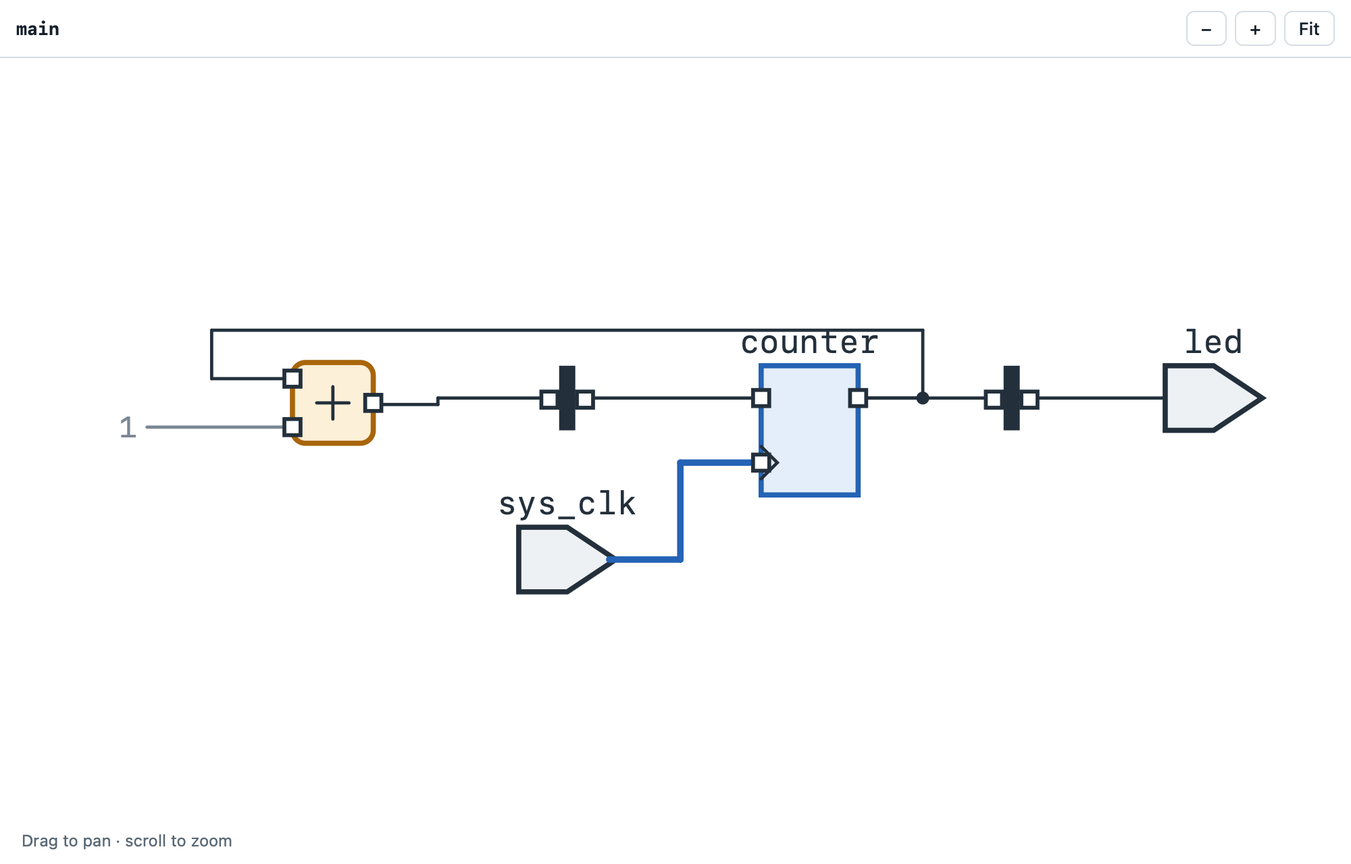
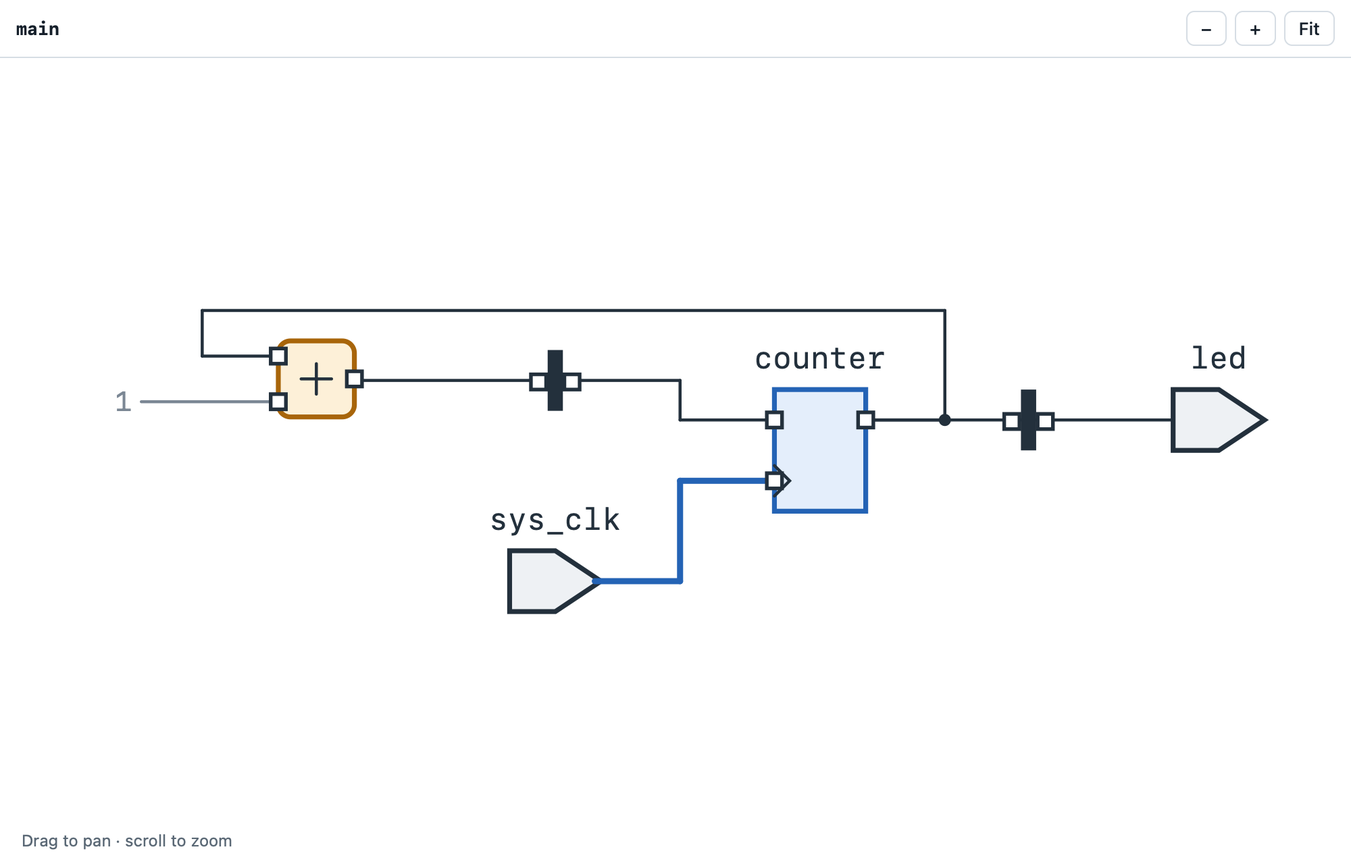
Diagram: plain Show Diagram menu item, one status text, double-click
From the user's review (2026-11-11):
- The editor's right-click item is "Show Diagram", like Auto Format; it
  acts on the module the cursor is in.
- The status bar says "Preparing the diagram…", or "Preparing the
  diagram (large)…" when the engine says so, and no longer repeats the
  engine's phase beside it.
- The docs say a double-click opens a module, as the engine's page now
  does; the fixtures and the diagram screenshot are recaptured.

Changed region(s): [[0.093, 0.3438, 0.93, 0.5938], [0.372, 0.5625, 0.527, 0.7188]]

diff --git a/ui/e2e/fixtures/diagram.html b/ui/e2e/fixtures/diagram.html
@@ -90,7 +90,7 @@ button[hidden] { display: none; }
 <script>
 (function () {
   "use strict";
-  const DATA = {"format":1,"top":"main","modules":{"main":{"name":"main","top":true,"source":{"file":"main.v","line":1},"svg_file":"main.svg","blocks":{"$main.v:6$add$170":{"kind":"logic","category":"arith","title":"Adder","type":"$add","width":32,"source":{"file":"main.v","line":6},"fixed":{"B":"1"},"ports":{"A":{"direction":"input","width":24,"signal":"counter","by_label":false},"B":{"direction":"input","width":32,"signal":"fixed value 1","by_label":false},"Y":{"direction":"output","width":32,"signal":"","by_label":false}}},"$procdff$172":{"kind":"logic","category":"reg","title":"Register","type":"$dff","width":24,"name":"counter","source":{"file":"main.v","line":6},"ports":{"CLK":{"direction":"input","width":1,"signal":"sys_clk","by_label":false},"D":{"direction":"input","width":24,"signal":"","by_label":false},"Q":{"direction":"output","width":24,"signal":"counter","by_label":false}}}},"labels":{"l0":{"text":"1","kind":"fixed","direction":"in","block":"$main.v:6$add$170","port":"B","bits":[59,60,61,62,63,64,65,66,67,68,69,70,71,72,73,74,75,76,77,78,79,80,81,82,83,84,85,86,87,88,89,90]}},"pins":{"sys_clk":{"direction":"input","width":1,"bits":[2]},"led":{"direction":"output","width":1,"bits":[3]}},"signals":{"2":{"name":"sys_clk","width":1},"3":{"name":"counter","width":24},"4":{"name":"counter","width":24},"5":{"name":"counter","width":24},"6":{"name":"counter","width":24},"7":{"name":"counter","width":24},"8":{"name":"counter","width":24},"9":{"name":"counter","width":24},"10":{"name":"counter","width":24},"11":{"name":"counter","width":24},"12":{"name":"counter","width":24},"13":{"name":"counter","width":24},"14":{"name":"counter","width":24},"15":{"name":"counter","width":24},"16":{"name":"counter","width":24},"17":{"name":"counter","width":24},"18":{"name":"counter","width":24},"19":{"name":"counter","width":24},"20":{"name":"counter","width":24},"21":{"name":"counter","width":24},"22":{"name":"counter","width":24},"23":{"name":"counter","width":24},"24":{"name":"counter","width":24},"25":{"name":"counter","width":24},"26":{"name":"counter","width":24},"27":{"name":"","width":24},"28":{"name":"","width":24},"29":{"name":"","width":24},"30":{"name":"","width":24},"31":{"name":"","width":24},"32":{"name":"","width":24},"33":{"name":"","width":24},"34":{"name":"","width":24},"35":{"name":"","width":24},"36":{"name":"","width":24},"37":{"name":"","width":24},"38":{"name":"","width":24},"39":{"name":"","width":24},"40":{"name":"","width":24},"41":{"name":"","width":24},"42":{"name":"","width":24},"43":{"name":"","width":24},"44":{"name":"","width":24},"45":{"name":"","width":24},"46":{"name":"","width":24},"47":{"name":"","width":24},"48":{"name":"","width":24},"49":{"name":"","width":24},"50":{"name":"","width":24},"51":{"name":"","width":32},"52":{"name":"","width":32},"53":{"name":"","width":32},"54":{"name":"","width":32},"55":{"name":"","width":32},"56":{"name":"","width":32},"57":{"name":"","width":32},"58":{"name":"","width":32},"59":{"name":"fixed value 1","width":32},"60":{"name":"fixed value 1","width":32},"61":{"name":"fixed value 1","width":32},"62":{"name":"fixed value 1","width":32},"63":{"name":"fixed value 1","width":32},"64":{"name":"fixed value 1","width":32},"65":{"name":"fixed value 1","width":32},"66":{"name":"fixed value 1","width":32},"67":{"name":"fixed value 1","width":32},"68":{"name":"fixed value 1","width":32},"69":{"name":"fixed value 1","width":32},"70":{"name":"fixed value 1","width":32},"71":{"name":"fixed value 1","width":32},"72":{"name":"fixed value 1","width":32},"73":{"name":"fixed value 1","width":32},"74":{"name":"fixed value 1","width":32},"75":{"name":"fixed value 1","width":32},"76":{"name":"fixed value 1","width":32},"77":{"name":"fixed value 1","width":32},"78":{"name":"fixed value 1","width":32},"79":{"name":"fixed value 1","width":32},"80":{"name":"fixed value 1","width":32},"81":{"name":"fixed value 1","width":32},"82":{"name":"fixed value 1","width":32},"83":{"name":"fixed value 1","width":32},"84":{"name":"fixed value 1","width":32},"85":{"name":"fixed value 1","width":32},"86":{"name":"fixed value 1","width":32},"87":{"name":"fixed value 1","width":32},"88":{"name":"fixed value 1","width":32},"89":{"name":"fixed value 1","width":32},"90":{"name":"fixed value 1","width":32}},"clocks":[2],"svg":"<svg xmlns=\"http://www.w3.org/2000/svg\" class=\"logix-diagram\" viewBox=\"0 0 387 105\" width=\"387\" height=\"105\" data-module=\"main\"><style>svg.logix-diagram{stroke:var(--logix-diagram-wire,#23303c);fill:none;stroke-linecap:round}\nsvg.logix-diagram text{fill:var(--logix-diagram-text,var(--logix-diagram-wire,#23303c));stroke:none;font:400 10px var(--logix-diagram-font,ui-monospace,\"SF Mono\",Menlo,Consolas,monospace)}\nsvg.logix-diagram .nodelabel{text-anchor:middle}\nsvg.logix-diagram .bar,svg.logix-diagram .junction{fill:var(--logix-diagram-wire,#23303c);stroke:none}\nsvg.logix-diagram .block>.body{stroke-width:1.6;fill:var(--logix-diagram-gate-fill,#e9eef3);stroke:var(--logix-diagram-gate,#4b5a69)}\nsvg.logix-diagram .block>.mark{stroke:var(--logix-diagram-wire,#23303c)}\nsvg.logix-diagram .cat-reg>.body{fill:var(--logix-diagram-register-fill,#e4eefb);stroke:var(--logix-diagram-register,#2463b5)}\nsvg.logix-diagram .cat-arith>.body{fill:var(--logix-diagram-arithmetic-fill,#fdf0d8);stroke:var(--logix-diagram-arithmetic,#a8650a)}\nsvg.logix-diagram .cat-cmp>.body{fill:var(--logix-diagram-compare-fill,#eee7fb);stroke:var(--logix-diagram-compare,#6a43c2)}\nsvg.logix-diagram .cat-mux>.body{fill:var(--logix-diagram-mux-fill,#fae4f0);stroke:var(--logix-diagram-mux,#ad2f7a)}\nsvg.logix-diagram .cat-mem>.body{fill:var(--logix-diagram-memory-fill,#dff3e8);stroke:var(--logix-diagram-memory,#237a4b)}\nsvg.logix-diagram .cat-module>.body{fill:var(--logix-diagram-module-fill,#dcf1f1);stroke:var(--logix-diagram-module,#0f7f84)}\nsvg.logix-diagram .cat-fpga>.body{fill:var(--logix-diagram-fpga-fill,#fbe7da);stroke:var(--logix-diagram-fpga,#b84d16)}\nsvg.logix-diagram .cat-port>.body{fill:var(--logix-diagram-pin-fill,#eef1f4);stroke:var(--logix-diagram-wire,#23303c)}\nsvg.logix-diagram .cat-const>.body{fill:var(--logix-diagram-pin-fill,#eef1f4);stroke:var(--logix-diagram-fixed,#7b8794)}\nsvg.logix-diagram .cat-const text{fill:var(--logix-diagram-fixed,#7b8794)}\nsvg.logix-diagram .wire.clock,svg.logix-diagram .wire.global{stroke:var(--logix-diagram-clock,#2463b5);stroke-width:2}\nsvg.logix-diagram .junction.clock,svg.logix-diagram .junction.global{fill:var(--logix-diagram-clock,#2463b5)}\nsvg.logix-diagram .wire.fixed{stroke:var(--logix-diagram-fixed,#7b8794)}\nsvg.logix-diagram text.lbltext{font-size:9px}\nsvg.logix-diagram text.signal{fill:var(--logix-diagram-clock,#2463b5)}\nsvg.logix-diagram text.fixed{fill:var(--logix-diagram-fixed,#7b8794)}\nsvg.logix-diagram .portbox{fill:var(--logix-diagram-sheet,#fff);stroke:var(--logix-diagram-wire,#23303c);stroke-width:1.2}\n<\/style><g class=\"blocks\"><g class=\"block cat-arith\" data-block=\"$main.v:6$add$170\" transform=\"translate(75,22)\"><rect width=\"25\" height=\"25\" rx=\"4\" class=\"body\"/><line x1=\"7.5\" y1=\"12.5\" x2=\"17.5\" y2=\"12.5\" class=\"mark\"/><line x1=\"12.5\" y1=\"7.5\" x2=\"12.5\" y2=\"17.5\" class=\"mark\"/><\/g><g class=\"block cat-reg\" data-block=\"$procdff$172\" transform=\"translate(220,23)\"><rect width=\"30\" height=\"40\" class=\"body\"/><path d=\"M0,35 L5,30 L0,25\" class=\"mark\"/><text x=\"15\" y=\"-4\" class=\"nodelabel\">counter<\/text><\/g><g class=\"block cat-port\" data-pin=\"sys_clk\" transform=\"translate(145,73)\"><path d=\"M0,0 L0,20 L15,20 L30,10 L15,0 Z\" class=\"body\"/><text x=\"15\" y=\"-4\" class=\"nodelabel\">sys_clk<\/text><\/g><g class=\"block cat-port\" data-pin=\"led\" transform=\"translate(345,23)\"><path d=\"M0,0 L0,20 L15,20 L30,10 L15,0 Z\" class=\"body\"/><text x=\"15\" y=\"-4\" class=\"nodelabel\">led<\/text><\/g><g class=\"block label\" data-label=\"l0\" transform=\"translate(12,42)\"><text x=\"15\" y=\"3\" text-anchor=\"end\" class=\"lbltext fixed\">1<\/text><\/g><g class=\"block splitjoin\" data-sj=\"s0\" data-kind=\"split\" data-bits=\"27,28,29,30,31,32,33,34,35,36,37,38,39,40,41,42,43,44,45,46,47,48,49,50,51,52,53,54,55,56,57,58\" transform=\"translate(157.5,23)\"><rect width=\"5\" height=\"20\" class=\"bar\"/><\/g><g class=\"block splitjoin\" data-sj=\"s1\" data-kind=\"split\" data-bits=\"4,5,6,7,8,9,10,11,12,13,14,15,16,17,18,19,20,21,22,23,24,25,26,3\" transform=\"translate(295,23)\"><rect width=\"5\" height=\"20\" class=\"bar\"/><\/g><\/g><g class=\"wires\"><line x1=\"250\" y1=\"33\" x2=\"270\" y2=\"33\" class=\"wire\" data-bits=\"4,5,6,7,8,9,10,11,12,13,14,15,16,17,18,19,20,21,22,23,24,25,26,3\"/><line x1=\"270\" y1=\"33\" x2=\"270\" y2=\"12\" class=\"wire\" data-bits=\"4,5,6,7,8,9,10,11,12,13,14,15,16,17,18,19,20,21,22,23,24,25,26,3\"/><line x1=\"270\" y1=\"12\" x2=\"50\" y2=\"12\" class=\"wire\" data-bits=\"4,5,6,7,8,9,10,11,12,13,14,15,16,17,18,19,20,21,22,23,24,25,26,3\"/><line x1=\"50\" y1=\"12\" x2=\"50\" y2=\"27\" class=\"wire\" data-bits=\"4,5,6,7,8,9,10,11,12,13,14,15,16,17,18,19,20,21,22,23,24,25,26,3\"/><line x1=\"50\" y1=\"27\" x2=\"75\" y2=\"27\" class=\"wire\" data-bits=\"4,5,6,7,8,9,10,11,12,13,14,15,16,17,18,19,20,21,22,23,24,25,26,3\"/><circle cx=\"270\" cy=\"33\" r=\"2\" class=\"wire junction\" data-bits=\"4,5,6,7,8,9,10,11,12,13,14,15,16,17,18,19,20,21,22,23,24,25,26,3\"/><line x1=\"250\" y1=\"33\" x2=\"295\" y2=\"33\" class=\"wire\" data-bits=\"4,5,6,7,8,9,10,11,12,13,14,15,16,17,18,19,20,21,22,23,24,25,26,3\"/><line x1=\"30\" y1=\"42\" x2=\"75\" y2=\"42\" class=\"wire fixed\" data-bits=\"59,60,61,62,63,64,65,66,67,68,69,70,71,72,73,74,75,76,77,78,79,80,81,82,83,84,85,86,87,88,89,90\"/><line x1=\"173\" y1=\"83\" x2=\"195\" y2=\"83\" class=\"wire clock\" data-bits=\"2\"/><line x1=\"195\" y1=\"83\" x2=\"195\" y2=\"53\" class=\"wire clock\" data-bits=\"2\"/><line x1=\"195\" y1=\"53\" x2=\"220\" y2=\"53\" class=\"wire clock\" data-bits=\"2\"/><line x1=\"161.5\" y1=\"33\" x2=\"220\" y2=\"33\" class=\"wire\" data-bits=\"27,28,29,30,31,32,33,34,35,36,37,38,39,40,41,42,43,44,45,46,47,48,49,50\"/><line x1=\"299\" y1=\"33\" x2=\"345\" y2=\"33\" class=\"wire\" data-bits=\"3\"/><line x1=\"100\" y1=\"35\" x2=\"120\" y2=\"35\" class=\"wire\" data-bits=\"27,28,29,30,31,32,33,34,35,36,37,38,39,40,41,42,43,44,45,46,47,48,49,50,51,52,53,54,55,56,57,58\"/><line x1=\"120\" y1=\"35\" x2=\"120\" y2=\"33\" class=\"wire\" data-bits=\"27,28,29,30,31,32,33,34,35,36,37,38,39,40,41,42,43,44,45,46,47,48,49,50,51,52,53,54,55,56,57,58\"/><line x1=\"120\" y1=\"33\" x2=\"157.5\" y2=\"33\" class=\"wire\" data-bits=\"27,28,29,30,31,32,33,34,35,36,37,38,39,40,41,42,43,44,45,46,47,48,49,50,51,52,53,54,55,56,57,58\"/><\/g><g class=\"ports\"><rect x=\"72.5\" y=\"24.5\" width=\"5\" height=\"5\" class=\"portbox\" data-block=\"$main.v:6$add$170\" data-port=\"A\"/><rect x=\"72.5\" y=\"39.5\" width=\"5\" height=\"5\" class=\"portbox\" data-block=\"$main.v:6$add$170\" data-port=\"B\"/><rect x=\"97.5\" y=\"32\" width=\"5\" height=\"5\" class=\"portbox\" data-block=\"$main.v:6$add$170\" data-port=\"Y\"/><rect x=\"217.5\" y=\"50.5\" width=\"5\" height=\"5\" class=\"portbox\" data-block=\"$procdff$172\" data-port=\"CLK\"/><rect x=\"217.5\" y=\"30.5\" width=\"5\" height=\"5\" class=\"portbox\" data-block=\"$procdff$172\" data-port=\"D\"/><rect x=\"247.5\" y=\"30.5\" width=\"5\" height=\"5\" class=\"portbox\" data-block=\"$procdff$172\" data-port=\"Q\"/><rect x=\"152\" y=\"31\" width=\"5\" height=\"5\" class=\"portbox\" data-sj=\"s0\" data-part=\"[31:0]\" data-side=\"in\"/><rect x=\"163\" y=\"31\" width=\"5\" height=\"5\" class=\"portbox\" data-sj=\"s0\" data-part=\"[23:0]\" data-side=\"out\"/><rect x=\"289.5\" y=\"31\" width=\"5\" height=\"5\" class=\"portbox\" data-sj=\"s1\" data-part=\"[23:0]\" data-side=\"in\"/><rect x=\"300.5\" y=\"31\" width=\"5\" height=\"5\" class=\"portbox\" data-sj=\"s1\" data-part=\"[23]\" data-side=\"out\"/><\/g><\/svg>"}}};
+  const DATA = {"format":1,"top":"main","modules":{"main":{"name":"main","top":true,"source":{"file":"main.v","line":1},"svg_file":"main.svg","blocks":{"$main.v:6$add$170":{"kind":"logic","category":"arith","title":"Adder","type":"$add","width":32,"source":{"file":"main.v","line":6},"fixed":{"B":"1"},"ports":{"A":{"direction":"input","width":24,"signal":"counter","by_label":false},"B":{"direction":"input","width":32,"signal":"fixed value 1","by_label":false},"Y":{"direction":"output","width":32,"signal":"","by_label":false}}},"$procdff$172":{"kind":"logic","category":"reg","title":"Register","type":"$dff","width":24,"name":"counter","source":{"file":"main.v","line":6},"ports":{"CLK":{"direction":"input","width":1,"signal":"sys_clk","by_label":false},"D":{"direction":"input","width":24,"signal":"","by_label":false},"Q":{"direction":"output","width":24,"signal":"counter","by_label":false}}}},"labels":{"l0":{"text":"1","kind":"fixed","direction":"in","block":"$main.v:6$add$170","port":"B","bits":[59,60,61,62,63,64,65,66,67,68,69,70,71,72,73,74,75,76,77,78,79,80,81,82,83,84,85,86,87,88,89,90]}},"pins":{"sys_clk":{"direction":"input","width":1,"bits":[2]},"led":{"direction":"output","width":1,"bits":[3]}},"signals":{"2":{"name":"sys_clk","width":1},"3":{"name":"counter","width":24},"4":{"name":"counter","width":24},"5":{"name":"counter","width":24},"6":{"name":"counter","width":24},"7":{"name":"counter","width":24},"8":{"name":"counter","width":24},"9":{"name":"counter","width":24},"10":{"name":"counter","width":24},"11":{"name":"counter","width":24},"12":{"name":"counter","width":24},"13":{"name":"counter","width":24},"14":{"name":"counter","width":24},"15":{"name":"counter","width":24},"16":{"name":"counter","width":24},"17":{"name":"counter","width":24},"18":{"name":"counter","width":24},"19":{"name":"counter","width":24},"20":{"name":"counter","width":24},"21":{"name":"counter","width":24},"22":{"name":"counter","width":24},"23":{"name":"counter","width":24},"24":{"name":"counter","width":24},"25":{"name":"counter","width":24},"26":{"name":"counter","width":24},"27":{"name":"","width":24},"28":{"name":"","width":24},"29":{"name":"","width":24},"30":{"name":"","width":24},"31":{"name":"","width":24},"32":{"name":"","width":24},"33":{"name":"","width":24},"34":{"name":"","width":24},"35":{"name":"","width":24},"36":{"name":"","width":24},"37":{"name":"","width":24},"38":{"name":"","width":24},"39":{"name":"","width":24},"40":{"name":"","width":24},"41":{"name":"","width":24},"42":{"name":"","width":24},"43":{"name":"","width":24},"44":{"name":"","width":24},"45":{"name":"","width":24},"46":{"name":"","width":24},"47":{"name":"","width":24},"48":{"name":"","width":24},"49":{"name":"","width":24},"50":{"name":"","width":24},"51":{"name":"","width":32},"52":{"name":"","width":32},"53":{"name":"","width":32},"54":{"name":"","width":32},"55":{"name":"","width":32},"56":{"name":"","width":32},"57":{"name":"","width":32},"58":{"name":"","width":32},"59":{"name":"fixed value 1","width":32},"60":{"name":"fixed value 1","width":32},"61":{"name":"fixed value 1","width":32},"62":{"name":"fixed value 1","width":32},"63":{"name":"fixed value 1","width":32},"64":{"name":"fixed value 1","width":32},"65":{"name":"fixed value 1","width":32},"66":{"name":"fixed value 1","width":32},"67":{"name":"fixed value 1","width":32},"68":{"name":"fixed value 1","width":32},"69":{"name":"fixed value 1","width":32},"70":{"name":"fixed value 1","width":32},"71":{"name":"fixed value 1","width":32},"72":{"name":"fixed value 1","width":32},"73":{"name":"fixed value 1","width":32},"74":{"name":"fixed value 1","width":32},"75":{"name":"fixed value 1","width":32},"76":{"name":"fixed value 1","width":32},"77":{"name":"fixed value 1","width":32},"78":{"name":"fixed value 1","width":32},"79":{"name":"fixed value 1","width":32},"80":{"name":"fixed value 1","width":32},"81":{"name":"fixed value 1","width":32},"82":{"name":"fixed value 1","width":32},"83":{"name":"fixed value 1","width":32},"84":{"name":"fixed value 1","width":32},"85":{"name":"fixed value 1","width":32},"86":{"name":"fixed value 1","width":32},"87":{"name":"fixed value 1","width":32},"88":{"name":"fixed value 1","width":32},"89":{"name":"fixed value 1","width":32},"90":{"name":"fixed value 1","width":32}},"clocks":[2],"svg":"<svg xmlns=\"http://www.w3.org/2000/svg\" class=\"logix-diagram\" viewBox=\"0 0 411 123\" width=\"411\" height=\"123\" data-module=\"main\"><style>svg.logix-diagram{stroke:var(--logix-diagram-wire,#23303c);fill:none;stroke-linecap:round}\nsvg.logix-diagram text{fill:var(--logix-diagram-text,var(--logix-diagram-wire,#23303c));stroke:none;font:400 10px var(--logix-diagram-font,ui-monospace,\"SF Mono\",Menlo,Consolas,monospace)}\nsvg.logix-diagram .nodelabel{text-anchor:middle}\nsvg.logix-diagram .glyph{text-anchor:middle;font-weight:600}\nsvg.logix-diagram .bar,svg.logix-diagram .junction{fill:var(--logix-diagram-wire,#23303c);stroke:none}\nsvg.logix-diagram .block>.body{stroke-width:1.6;fill:var(--logix-diagram-gate-fill,#e9eef3);stroke:var(--logix-diagram-gate,#4b5a69)}\nsvg.logix-diagram .block>.mark{stroke:var(--logix-diagram-wire,#23303c)}\nsvg.logix-diagram .cat-reg>.body{fill:var(--logix-diagram-register-fill,#e4eefb);stroke:var(--logix-diagram-register,#2463b5)}\nsvg.logix-diagram .cat-arith>.body{fill:var(--logix-diagram-arithmetic-fill,#fdf0d8);stroke:var(--logix-diagram-arithmetic,#a8650a)}\nsvg.logix-diagram .cat-cmp>.body{fill:var(--logix-diagram-compare-fill,#eee7fb);stroke:var(--logix-diagram-compare,#6a43c2)}\nsvg.logix-diagram .cat-mux>.body{fill:var(--logix-diagram-mux-fill,#fae4f0);stroke:var(--logix-diagram-mux,#ad2f7a)}\nsvg.logix-diagram .cat-mem>.body{fill:var(--logix-diagram-memory-fill,#dff3e8);stroke:var(--logix-diagram-memory,#237a4b)}\nsvg.logix-diagram .cat-module>.body{fill:var(--logix-diagram-module-fill,#dcf1f1);stroke:var(--logix-diagram-module,#0f7f84)}\nsvg.logix-diagram .cat-fpga>.body{fill:var(--logix-diagram-fpga-fill,#fbe7da);stroke:var(--logix-diagram-fpga,#b84d16)}\nsvg.logix-diagram .cat-port>.body{fill:var(--logix-diagram-pin-fill,#eef1f4);stroke:var(--logix-diagram-wire,#23303c)}\nsvg.logix-diagram .cat-const>.body{fill:var(--logix-diagram-pin-fill,#eef1f4);stroke:var(--logix-diagram-fixed,#7b8794)}\nsvg.logix-diagram .cat-const text{fill:var(--logix-diagram-fixed,#7b8794)}\nsvg.logix-diagram .wire.clock,svg.logix-diagram .wire.global{stroke:var(--logix-diagram-clock,#2463b5);stroke-width:2}\nsvg.logix-diagram .junction.clock,svg.logix-diagram .junction.global{fill:var(--logix-diagram-clock,#2463b5)}\nsvg.logix-diagram .wire.fixed{stroke:var(--logix-diagram-fixed,#7b8794)}\nsvg.logix-diagram text.lbltext{font-size:9px}\nsvg.logix-diagram text.signal{fill:var(--logix-diagram-clock,#2463b5)}\nsvg.logix-diagram text.fixed{fill:var(--logix-diagram-fixed,#7b8794)}\nsvg.logix-diagram .portbox{fill:var(--logix-diagram-sheet,#fff);stroke:var(--logix-diagram-wire,#23303c);stroke-width:1.2}\n<\/style><g class=\"blocks\"><g class=\"block cat-arith\" data-block=\"$main.v:6$add$170\" transform=\"translate(75,22)\"><rect width=\"25\" height=\"25\" rx=\"4\" class=\"body\"/><line x1=\"7.5\" y1=\"12.5\" x2=\"17.5\" y2=\"12.5\" class=\"mark\"/><line x1=\"12.5\" y1=\"7.5\" x2=\"12.5\" y2=\"17.5\" class=\"mark\"/><\/g><g class=\"block cat-reg\" data-block=\"$procdff$172\" transform=\"translate(238,38)\"><rect width=\"30\" height=\"40\" class=\"body\"/><path d=\"M0,35 L5,30 L0,25\" class=\"mark\"/><text x=\"15\" y=\"-7\" class=\"nodelabel\">counter<\/text><\/g><g class=\"block cat-port\" data-pin=\"sys_clk\" transform=\"translate(151,91)\"><path d=\"M0,0 L0,20 L15,20 L30,10 L15,0 Z\" class=\"body\"/><text x=\"15\" y=\"-7\" class=\"nodelabel\">sys_clk<\/text><\/g><g class=\"block cat-port\" data-pin=\"led\" transform=\"translate(369,38)\"><path d=\"M0,0 L0,20 L15,20 L30,10 L15,0 Z\" class=\"body\"/><text x=\"15\" y=\"-7\" class=\"nodelabel\">led<\/text><\/g><g class=\"block label\" data-label=\"l0\" transform=\"translate(12,42)\"><text x=\"15\" y=\"3\" text-anchor=\"end\" class=\"lbltext fixed\">1<\/text><\/g><g class=\"block splitjoin\" data-sj=\"s0\" data-kind=\"split\" data-bits=\"27,28,29,30,31,32,33,34,35,36,37,38,39,40,41,42,43,44,45,46,47,48,49,50,51,52,53,54,55,56,57,58\" transform=\"translate(163.5,25)\"><rect width=\"5\" height=\"20\" class=\"bar\"/><\/g><g class=\"block splitjoin\" data-sj=\"s1\" data-kind=\"split\" data-bits=\"4,5,6,7,8,9,10,11,12,13,14,15,16,17,18,19,20,21,22,23,24,25,26,3\" transform=\"translate(319,38)\"><rect width=\"5\" height=\"20\" class=\"bar\"/><\/g><\/g><g class=\"wires\"><line x1=\"268\" y1=\"48\" x2=\"294\" y2=\"48\" class=\"wire\" data-bits=\"4,5,6,7,8,9,10,11,12,13,14,15,16,17,18,19,20,21,22,23,24,25,26,3\"/><line x1=\"294\" y1=\"48\" x2=\"294\" y2=\"12\" class=\"wire\" data-bits=\"4,5,6,7,8,9,10,11,12,13,14,15,16,17,18,19,20,21,22,23,24,25,26,3\"/><line x1=\"294\" y1=\"12\" x2=\"50\" y2=\"12\" class=\"wire\" data-bits=\"4,5,6,7,8,9,10,11,12,13,14,15,16,17,18,19,20,21,22,23,24,25,26,3\"/><line x1=\"50\" y1=\"12\" x2=\"50\" y2=\"27\" class=\"wire\" data-bits=\"4,5,6,7,8,9,10,11,12,13,14,15,16,17,18,19,20,21,22,23,24,25,26,3\"/><line x1=\"50\" y1=\"27\" x2=\"75\" y2=\"27\" class=\"wire\" data-bits=\"4,5,6,7,8,9,10,11,12,13,14,15,16,17,18,19,20,21,22,23,24,25,26,3\"/><circle cx=\"294\" cy=\"48\" r=\"2\" class=\"wire junction\" data-bits=\"4,5,6,7,8,9,10,11,12,13,14,15,16,17,18,19,20,21,22,23,24,25,26,3\"/><line x1=\"268\" y1=\"48\" x2=\"319\" y2=\"48\" class=\"wire\" data-bits=\"4,5,6,7,8,9,10,11,12,13,14,15,16,17,18,19,20,21,22,23,24,25,26,3\"/><line x1=\"30\" y1=\"42\" x2=\"75\" y2=\"42\" class=\"wire fixed\" data-bits=\"59,60,61,62,63,64,65,66,67,68,69,70,71,72,73,74,75,76,77,78,79,80,81,82,83,84,85,86,87,88,89,90\"/><line x1=\"179\" y1=\"101\" x2=\"207\" y2=\"101\" class=\"wire clock\" data-bits=\"2\"/><line x1=\"207\" y1=\"101\" x2=\"207\" y2=\"68\" class=\"wire clock\" data-bits=\"2\"/><line x1=\"207\" y1=\"68\" x2=\"238\" y2=\"68\" class=\"wire clock\" data-bits=\"2\"/><line x1=\"167.5\" y1=\"35\" x2=\"207\" y2=\"35\" class=\"wire\" data-bits=\"27,28,29,30,31,32,33,34,35,36,37,38,39,40,41,42,43,44,45,46,47,48,49,50\"/><line x1=\"207\" y1=\"35\" x2=\"207\" y2=\"48\" class=\"wire\" data-bits=\"27,28,29,30,31,32,33,34,35,36,37,38,39,40,41,42,43,44,45,46,47,48,49,50\"/><line x1=\"207\" y1=\"48\" x2=\"238\" y2=\"48\" class=\"wire\" data-bits=\"27,28,29,30,31,32,33,34,35,36,37,38,39,40,41,42,43,44,45,46,47,48,49,50\"/><line x1=\"323\" y1=\"48\" x2=\"369\" y2=\"48\" class=\"wire\" data-bits=\"3\"/><line x1=\"100\" y1=\"35\" x2=\"163.5\" y2=\"35\" class=\"wire\" data-bits=\"27,28,29,30,31,32,33,34,35,36,37,38,39,40,41,42,43,44,45,46,47,48,49,50,51,52,53,54,55,56,57,58\"/><\/g><g class=\"ports\"><rect x=\"72.5\" y=\"24.5\" width=\"5\" height=\"5\" class=\"portbox\" data-block=\"$main.v:6$add$170\" data-port=\"A\"/><rect x=\"72.5\" y=\"39.5\" width=\"5\" height=\"5\" class=\"portbox\" data-block=\"$main.v:6$add$170\" data-port=\"B\"/><rect x=\"97.5\" y=\"32\" width=\"5\" height=\"5\" class=\"portbox\" data-block=\"$main.v:6$add$170\" data-port=\"Y\"/><rect x=\"235.5\" y=\"65.5\" width=\"5\" height=\"5\" class=\"portbox\" data-block=\"$procdff$172\" data-port=\"CLK\"/><rect x=\"235.5\" y=\"45.5\" width=\"5\" height=\"5\" class=\"portbox\" data-block=\"$procdff$172\" data-port=\"D\"/><rect x=\"265.5\" y=\"45.5\" width=\"5\" height=\"5\" class=\"portbox\" data-block=\"$procdff$172\" data-port=\"Q\"/><rect x=\"158\" y=\"33\" width=\"5\" height=\"5\" class=\"portbox\" data-sj=\"s0\" data-part=\"[31:0]\" data-side=\"in\"/><rect x=\"169\" y=\"33\" width=\"5\" height=\"5\" class=\"portbox\" data-sj=\"s0\" data-part=\"[23:0]\" data-side=\"out\"/><rect x=\"313.5\" y=\"46\" width=\"5\" height=\"5\" class=\"portbox\" data-sj=\"s1\" data-part=\"[23:0]\" data-side=\"in\"/><rect x=\"324.5\" y=\"46\" width=\"5\" height=\"5\" class=\"portbox\" data-sj=\"s1\" data-part=\"[23]\" data-side=\"out\"/><\/g><\/svg>"}}};
   const $ = (id) => document.getElementById(id);
   const canvas = $("canvas"), pop = $("pop");
   const hosted = window.parent !== window || typeof window.logixDiagramOpenSource === "function";
@@ -343,6 +343,10 @@ button[hidden] { display: none; }
     const blk = t.closest("g[data-block]");
     if (blk) {
       light(blk, "hl");
+      // A memory's ports: all of them.
+      if (blk.dataset.memory) {
+        canvas.querySelectorAll(`g[data-memory="${CSS.escape(blk.dataset.memory)}"]`).forEach((g) => { if (g !== blk) light(g, "hl"); });
+      }
       const info = (m.blocks || {})[blk.dataset.block];
       if (info) show(blockHtml(info), cx, cy); else pop.hidden = true;
       return;
@@ -371,11 +375,12 @@ button[hidden] { display: none; }
       : `<p class="title">${esc(info.title)}</p><p class="sub">${esc(sub)}</p>`;
     html += `<dl class="kv"><dt>Kind</dt><dd>${{ logic: "Logic", module: "Module", fpga: "FPGA block" }[info.kind] || ""}</dd>`;
     if (info.source) html += `<dt>Source</dt><dd>${esc(place(info.source))}</dd>`;
+    if (info.memory) html += `<dt>Memory</dt><dd>${esc(info.memory)}</dd>`;
     if (info.memory_init) html += `<dt>Contents</dt><dd>initial values loaded in ${esc(place(info.memory_init))}</dd>`;
     html += "</dl>";
     const fixed = Object.entries(info.fixed || {});
     if (fixed.length) html += `<h2>Fixed inputs</h2><dl class="kv">${fixed.map(([p, v]) => `<dt>${esc(p)}</dt><dd>${esc(v)}</dd>`).join("")}</dl>`;
-    if (info.kind === "module") html += `<p class="hint2">Click to open it.</p>`;
+    if (info.kind === "module") html += `<p class="hint2">Double-click to open it.</p>`;
     else if (hosted && info.source) html += `<p class="hint2">Double-click to go to its source.</p>`;
     return html;
   }
@@ -388,15 +393,14 @@ button[hidden] { display: none; }
     return blk ? (mod().blocks || {})[blk.dataset.block] || null : null;
   }
 
-  // A click opens a module; going to a block's source takes a double-click,
-  // so a stray click while exploring doesn't leave the diagram.
-  function click(cx, cy) {
-    const info = blockAt(cx, cy);
-    if (info && info.kind === "module" && DATA.modules[info.module]) go([...path, info.module]);
-  }
+  // Opening a module, or going to a block's source, takes a double-click,
+  // so a stray click while exploring changes nothing.
+  function click() {}
   canvas.addEventListener("dblclick", (e) => {
     const info = blockAt(e.clientX, e.clientY);
-    if (info && info.kind !== "module" && hosted) openSource(info.source);
+    if (!info) return;
+    if (info.kind === "module" && DATA.modules[info.module]) go([...path, info.module]);
+    else if (info.kind !== "module" && hosted) openSource(info.source);
   });
 
   // Open the module the address names, such as #main/notegen.

diff --git a/ui/src/App.svelte b/ui/src/App.svelte
@@ -719,6 +719,11 @@
     if (activity) return activity;
     if (stage && stage !== "ready" && !setupError && !running)
       return stageText[stage];
+    // A diagram's status is its phase: "(large)" when the engine says so.
+    if (running === "diagram" && status)
+      return taskStep?.message.includes("(large)")
+        ? "Preparing the diagram (large)…"
+        : "Preparing the diagram…";
     if (status) return status.text;
     return ready ? "Ready." : "";
   });
@@ -2397,7 +2402,9 @@
         {#if status?.report && buildReport && !isBusy && !activity}
           <button class="status-link" onclick={() => (buildReportOpen = true)}>Board Utilization…</button>
         {/if}
-        {#if running && taskStep && !activity}
+        <!-- Its phase, beside the status, except for a diagram, whose status
+             says it already. -->
+        {#if running && taskStep && !activity && running !== "diagram"}
           <span class="setup-detail"
             >{taskStep.message}{taskStep.percent != null
               ? ` ${taskStep.percent}%`

diff --git a/ui/e2e/fakeBackend.ts b/ui/e2e/fakeBackend.ts
@@ -499,7 +499,7 @@ export const backend: typeof Real.backend = {
       upload: "Synthesizing",
       test: "Running main_tb.v",
       simulate: "Running main_tb.v",
-      diagram: "Drawing the diagram",
+      diagram: "Preparing the diagram",
       report: "Synthesizing",
     }[task];
     const phases = task === "build" || task === "upload" || task === "report";

diff --git a/src-tauri/src/menu.rs b/src-tauri/src/menu.rs
@@ -478,9 +478,9 @@ pub fn show_editor_menu<R: Runtime>(
     };
     // In a design file: the diagram of the module at the cursor.
     let menu = match module.filter(|_| state.project && !state.testbench_open) {
-        Some(m) => menu.separator().item(
-            &MenuItemBuilder::with_id(SHOW_MODULE_DIAGRAM, format!("Show Diagram of {m}"))
-                .build(window)?,
+        Some(_) => menu.separator().item(
+            // Named like Auto Format: it acts on the module the cursor is in.
+            &MenuItemBuilder::with_id(SHOW_MODULE_DIAGRAM, "Show Diagram").build(window)?,
         ),
         None => menu,
     };

diff --git a/CLAUDE.md b/CLAUDE.md
@@ -164,7 +164,7 @@ Don't run `npm run tauri build` locally; installers come from the GitHub workflo
   - **UI** (the user's decisions): picking a board opens nothing extra (it takes the default). For every board, the toolbar shows a summary next to the board picker, the engine's label of the chosen variant (e.g. "USB · Flash", "FT232H adapter · RAM", `summary`: the configuration's `label` from `get_catalog`; no "untested" tag there: it was too intrusive, the user's decision, so only the panel's Note says it, in normal text); clicking it opens a small panel (`ui/src/lib/VariantPanel.svelte`): one section per dimension, even a single value, its label above its values as radio buttons (the standard control for one exclusive choice; segmented buttons wrapped and made the dimensions run together; drawn in CSS, a teal ring and dot, since the app's web view ignores `accent-color` and draws the selected radio as a faint dot), sections divided by a line, values without a configuration for the other current values dimmed but still clickable, under each section the selected value's `help`, aligned with the section heading, not indented under the last option (e.g. RAM: "Faster to upload; lost when the board is powered off."; also the tooltip), and the configuration's `user_notes` and untested warning in their own last section, "Note" (they're about the whole choice, not one dimension) (choosing one switches the others to the first configuration that has it; the status names what changed: `choose`). The same choices are Tools submenus, one per dimension (`menu::VariantMenu`, check items `variant:<dimension>:<value>`, from the menu state's `variantMenus`).
   - **Tasks**: `run_task` passes the variant to the engine's lint, build, test and simulate (the engine rebuilds from scratch when it changes, and Upload programs as built). The output names it ("Building … for Icesugar Pro (RAM)…"), The "Connected" status checks the chosen configuration: `connected_devices` lists, per device and board, the variants the device fits (`variants`), from the engine's matches.
 - **GTKWave to the front**: GTKWave is started in the background by the engine's `simulate`, so on macOS its window would stay behind Logix IDE. `run_task` notes the GTKWave processes running before a simulation; afterwards (if a testbench result came back) `bring_gtkwave_to_front` (`commands.rs`) waits up to 30 s (`GTKWAVE_WAIT_SECONDS`; a cold start, the first after a while, took over 8 s, the earlier limit) for the new one and activates it through `platform::bring_app_to_front` (macOS: Logix IDE yields activation, then the target is activated, which needs no permissions; native calls run on the main thread). The dev terminal shows `[logix] Brought GTKWave ...` or `Didn't find ...`. Then it emits `gtkwave-opened` (true when found; only for the latest simulation, `GTKWAVE_WAIT`). **The status waits for GTKWave** (the user's report, 2026-11-07: the green "done" came seconds before the window): after a successful Simulate, the result goes to the output as before, then the status shows "Opening GTKWave…" (info, with the busy spinner) until the event, which sets "Simulation done in … GTKWave shows the signals." or, when not found, "Simulation done in … GTKWave is taking a while to start; it may open behind this window." (`gtkwaveSlowText`); a status set meanwhile by another command is left alone. A failing testbench shows its error at once.
-- **Diagram** (Project > Show Diagram, Shift+Cmd+D; the design decided with the user from the engine's prototype, 2026-11-11): `Task::Diagram` runs the engine's `diagram` (board, variant, custom boards and display paths as Verify; `top_module` `main`; unsaved edits, Stop and errors as Verify), which draws every module and writes its page, `_build/diagram/diagram.html`; the backend keeps the page in memory (`TaskOutcome::diagram_page`, not sent to the UI) and shows it in the project's **Diagram window** (`src-tauri/src/diagram_window.rs`): a window of its own, one per project (label `diagram-<hash of the build key>`), titled "Diagram · <project>", 1000x700, movable, resizable and not modal, so the user keeps working; the window theme and scale follow Settings. The page is the engine's, unchanged (drill-down, pan, zoom, hover; the IDE draws nothing itself), served from memory on the `logix-diagram` scheme, since preparing a task clears the build folder. It gets no Tauri access (no capability): a double-click on a block other than a module (a click opens a module; the user's choice, 2026-11-11, since single clicks jumped by accident) calls `window.logixDiagramOpenSource(file, line)` (an initialization script), a navigation to `logix-open-source:` that `on_navigation` cancels; the backend checks the file is one of the project's files and sends `diagram-open-source` (`{key, file, line}`) to the main window, which shows that line if the project is still the open one (`jumpTo`). After a successful Verify with the project's Diagram window open, the same task draws the diagram again (`TaskInput::redraw_diagram`) and the window reloads, staying on the module it shows; a failed redraw is only logged. The status bar shows the engine's phase, "Preparing the diagram" ("(large)" when large). The engine draws 3 levels below the module the diagram starts at. **Show Diagram of <module>** (the editor's right-click menu, in a design file, not a testbench; the user's request, 2026-11-11): the diagram starts at the module the cursor is in (`moduleAt`: the last `module` declared before the cursor), as the engine's `top_module`, with its parameters' default values; `run_task`'s module (`testbench`, `TaskInput::diagram_module`), kept by the window (`diagram_window::module`) so Verify redraws the same one; a diagram from another module reloads the window from its start, the same module in place. Title "Diagram · <project> · <module>" when it isn't main. Diagram windows close with the main window. `run_task` only accepts plain identifiers as the module (`project::is_verilog_identifier`).
+- **Diagram** (Project > Show Diagram, Shift+Cmd+D; the design decided with the user from the engine's prototype, 2026-11-11): `Task::Diagram` runs the engine's `diagram` (board, variant, custom boards and display paths as Verify; `top_module` `main`; unsaved edits, Stop and errors as Verify), which draws every module and writes its page, `_build/diagram/diagram.html`; the backend keeps the page in memory (`TaskOutcome::diagram_page`, not sent to the UI) and shows it in the project's **Diagram window** (`src-tauri/src/diagram_window.rs`): a window of its own, one per project (label `diagram-<hash of the build key>`), titled "Diagram · <project>", 1000x700, movable, resizable and not modal, so the user keeps working; the window theme and scale follow Settings. The page is the engine's, unchanged (drill-down, pan, zoom, hover; the IDE draws nothing itself), served from memory on the `logix-diagram` scheme, since preparing a task clears the build folder. It gets no Tauri access (no capability): a double-click on a block other than a module (a double-click on a module opens it; single clicks do nothing, the user's choice, 2026-11-11, since they acted by accident) calls `window.logixDiagramOpenSource(file, line)` (an initialization script), a navigation to `logix-open-source:` that `on_navigation` cancels; the backend checks the file is one of the project's files and sends `diagram-open-source` (`{key, file, line}`) to the main window, which shows that line if the project is still the open one (`jumpTo`). After a successful Verify with the project's Diagram window open, the same task draws the diagram again (`TaskInput::redraw_diagram`) and the window reloads, staying on the module it shows; a failed redraw is only logged. The status bar says "Preparing the diagram…", "Preparing the diagram (large)…" when the engine's phase says (large), and doesn't repeat the phase beside it. The engine draws 3 levels below the module the diagram starts at. **Show Diagram** in the editor's right-click menu (unnamed, like Auto Format, the user's choice, 2026-11-11; in a design file, not a testbench; the user's request, 2026-11-11): the diagram starts at the module the cursor is in (`moduleAt`: the last `module` declared before the cursor), as the engine's `top_module`, with its parameters' default values; `run_task`'s module (`testbench`, `TaskInput::diagram_module`), kept by the window (`diagram_window::module`) so Verify redraws the same one; a diagram from another module reloads the window from its start, the same module in place. Title "Diagram · <project> · <module>" when it isn't main. Diagram windows close with the main window. `run_task` only accepts plain identifiers as the module (`project::is_verilog_identifier`).
 - **GTKWave layouts**: the simulation's source folder is the build folder, so the layout GTKWave opens (`main_tb.gtkw`, copied from the project if it has one) and saves is there. `build_dir::save_back_gtkw` copies `.gtkw` files without a generated-layout marker ("GENERATED AUTOMATICALLY BY LOGIX ENGINE") back to the (saved) project folder, if the build folder belongs to that project and the file changed. It runs before each task (preparing clears the build folder) and when the window regains focus (`save_gtkwave_layouts`), and logs what it saved.
 - **Live errors while typing**: Verible's language server (`verible-verilog-ls`, from the `verible` component of the engine's `logix-core` package: `engine::program_path` reads the component's `bin_folder` from `get_engine_info` `packages[].components`) runs with `--ruleset=none` (syntax errors only; Verible's style rules would flood beginners) and `--lsp_enable_hover=true`. The backend only relays messages (`src-tauri/src/language_server.rs` frames them; `lsp_start`, `lsp_send`, `lsp-message`/`lsp-closed` events). The UI speaks the protocol with `@codemirror/lsp-client` (`ui/src/lib/lsp.ts`: diagnostics, hover (own handler: skips empty answers and `tidyVeribleHover` drops Verible's "### data/net/var/instance" category title, keeping the name and e.g. "Type: reg [23:0]"), F12 jump to definition; not its formatter, since Auto Format uses the engine's `format`). The editor attaches each Verilog document through a compartment (`lspSlot`), with the file's real path as its address (a placeholder for unsaved projects). Every Verilog file of the project is open in the server, shown or not (`ProjectWorkspace` in `lsp.ts`, replacing the client's default workspace, which opens only the shown tab: the user's decision, 2026-11-06, so every tab's mark is current; the editor gives it the files' texts, `Editor.syncLsp`), and its problems go to the app (`liveProblems`, our own `publishDiagnostics` handler instead of the client's `serverDiagnostics`, which marks only the shown editor; `autoSync` sends the shown file's edits after 500 ms, as that extension did). Checked against the real `verible-verilog-ls` by hand: files not shown get their syntax errors, and they clear when fixed. It starts after the FPGA tools are ready and restarts if it stops (the restart notice goes to the IDE log only: nothing for the user to do). `lsp_start` always starts a fresh server, replacing one still running from before a window reload, and numbers each start so a replaced server's exit isn't reported as a stop: a reloaded window's client opens the project's files again, and Verible aborts (`StringViewSuperRangeMap::must_emplace`, signal 6) when a file it has open is opened again and the project then changes (reproduced with the real `verible-verilog-ls`, 2026-11-07; dev mode reloads the window on every UI edit); Settings can turn it off ("Check code while typing", default on: `lsp_stop`) and hover is off unless "Show info when hovering" is on (`setHoverEnabled`), both applied on OK without a restart; the fake backend never answers, so e2e tests and screenshots run without it. Live problems and those from commands are shown together (see Diagnostics).
 - **Engine restart** (2026-11-11): when the engine's process has exited (`Engine::has_stopped`), such as after a crash, `ready_engine` starts it again for the next command (its packages are downloaded already), logging it; the call that was running fails with "Logix Engine stopped while running <tool>; it starts again with the next command".

diff --git a/docs/using-logix.md b/docs/using-logix.md
@@ -207,7 +207,7 @@ the open Verilog file. **Edit > Undo** restores the previous text.
 in a window of its own that you can move and resize while you keep working.
 Every module of the design is in it:
 
-- **Click a module** to open it; the bar at the top goes back.
+- **Double-click a module** to open it; the bar at the top goes back.
 - **Double-click any other block** to show its line in the editor.
 - **Hover** a block, a port, a wire or a pin for its details, such as a
   signal's name and width.
@@ -218,8 +218,7 @@ Clocks and resets that go to many blocks are drawn as labels with their
 name, instead of long wires, and fixed values as labels with the value.
 After each **Verify**, the open diagram is drawn again.
 
-To see one module, right-click in its code and choose **Show Diagram of
-<module>**: the diagram starts at that module, with the modules it uses. A
+To see one module, right-click in its code and choose **Show Diagram**: the diagram starts at that module, with the modules it uses. A
 diagram shows three levels of modules below where it starts; open a deeper
 one by its own Show Diagram.
 

diff --git a/docs/tour.md b/docs/tour.md
@@ -104,7 +104,7 @@ a testbench. More in [Testbenches and simulation](testbenches.md).
 **Project > Show Diagram** draws your design as a schematic in a window of
 its own: registers, adders, comparators and the FPGA's own blocks, with the
 wires between them. It's a good way to check that the hardware you described
-is the hardware you meant. Click a module to open it, and double-click a block to
+is the hardware you meant. Double-click a module to open it, and any other block to
 see its line in the editor.
 
 ![The diagram of the blinky design](images/diagram.png)
